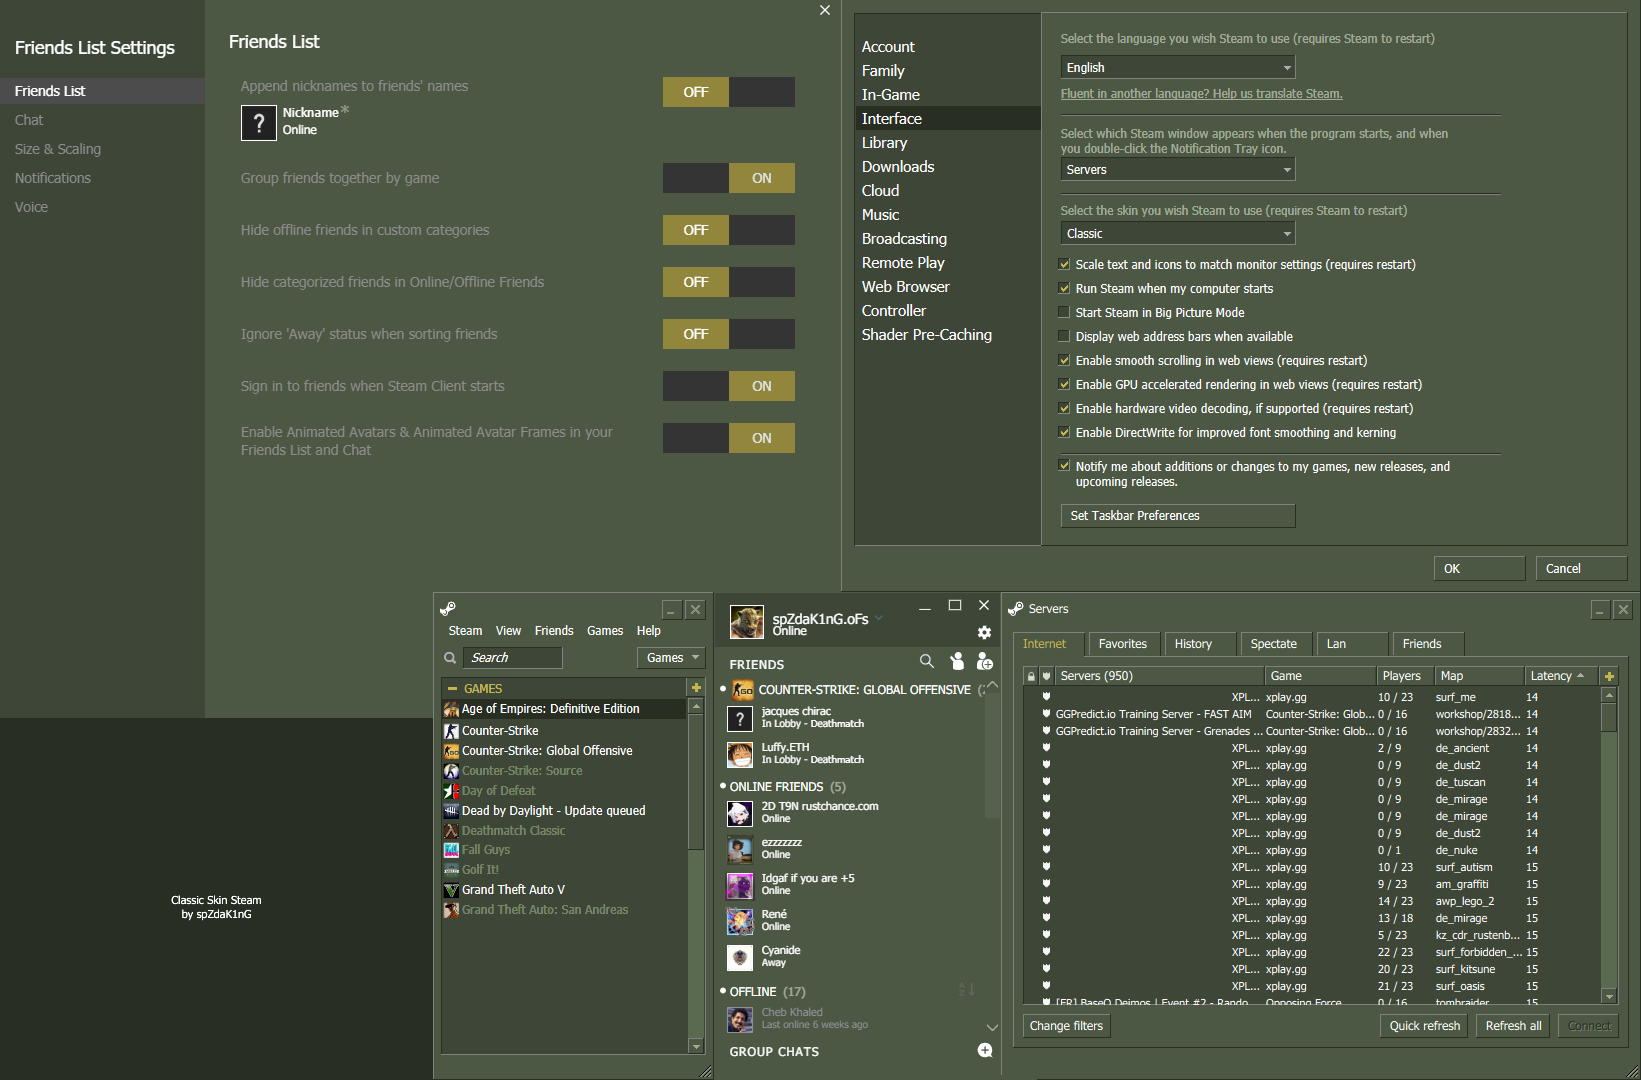
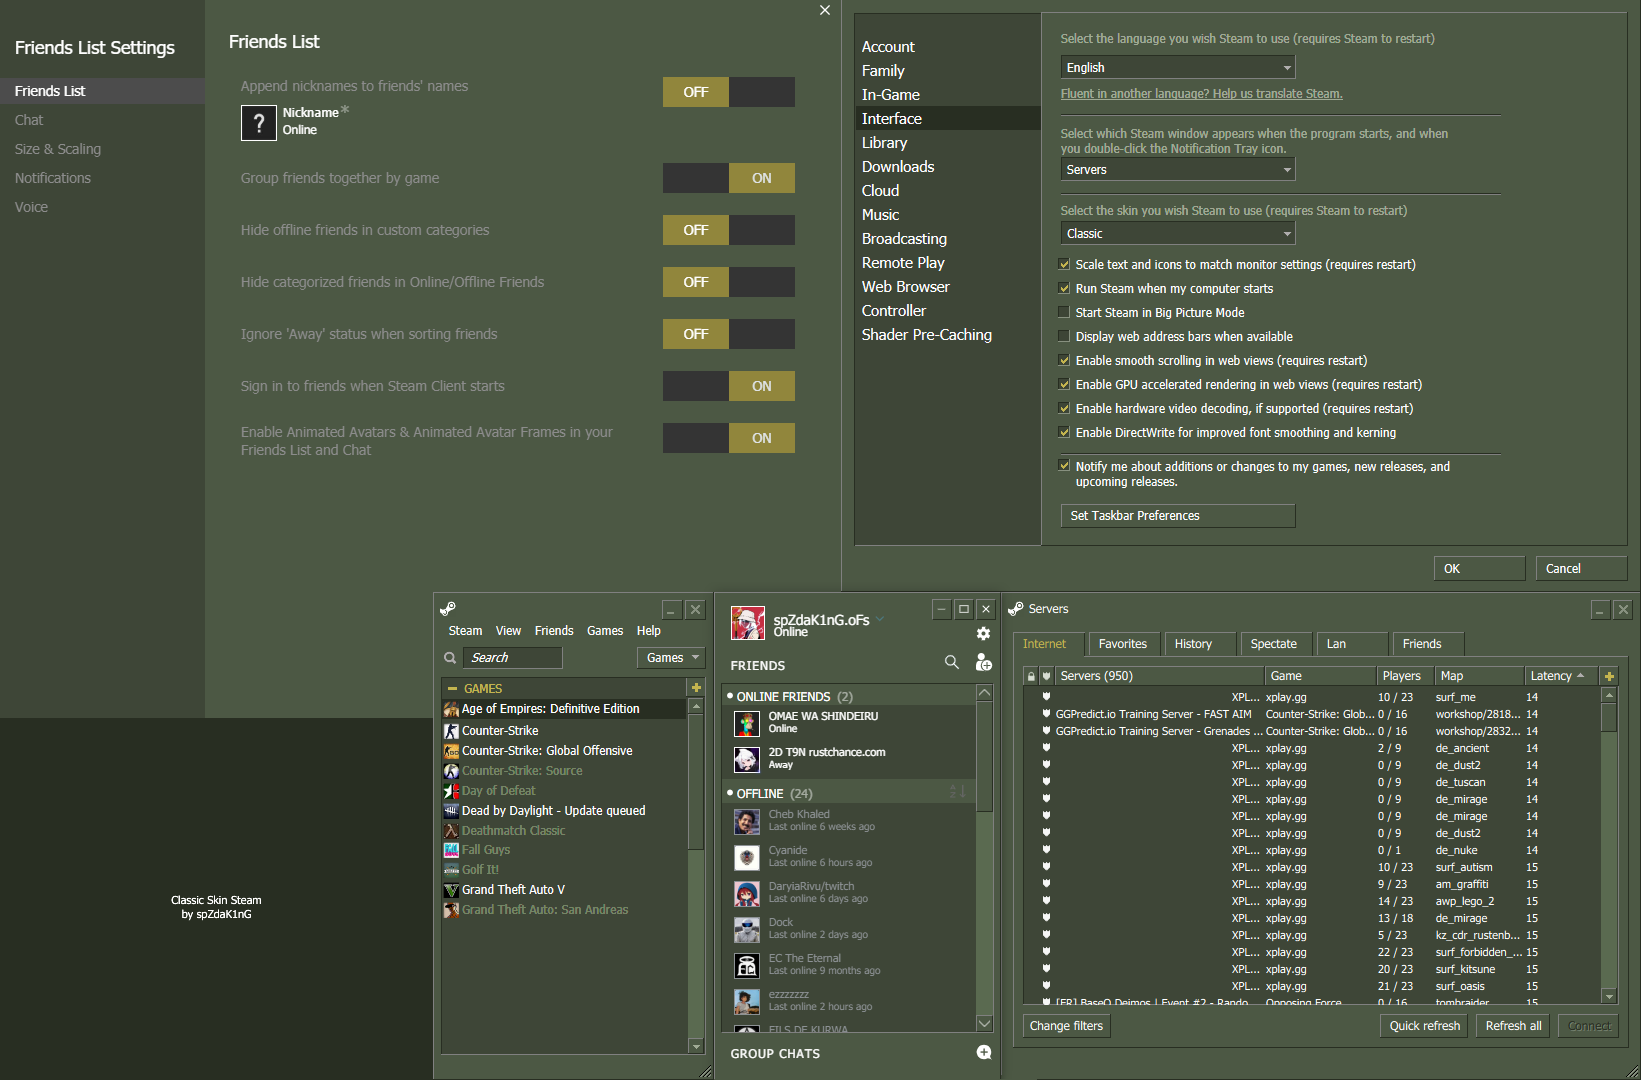
-- Follow up Steam Update Friends UI

Changed region(s): [[0.4351, 0.55, 0.6216, 0.9778], [0.5905, 0.9472, 0.6216, 0.9778]]

diff --git a/friends.custom.css b/friends.custom.css
@@ -1,6 +1,6 @@
 :root {
   --chatfont: 11px; /* Font size for chat messages */
-  --scrollbarSize: 15px;
+  --scrollbarSize: 17px;
 
   /* Color presets: */
   --focus: 145, 134, 60; /* Default Metro skin purple accent */
@@ -8,7 +8,7 @@
   --W10close_Red_h: 76, 88, 68; /* Window close button color on hover */
   --W10close_Red_p: 76, 88, 68; /* Window close button color when pressed */
   --clientBG: 76, 88, 68;
-  --header_dark: 62, 70, 55;
+  --header_dark: 76, 88, 68;
   --online: 255, 255, 255;
   --ingame: 255, 255, 255;
   --offline: 141, 146, 149;
@@ -56,6 +56,13 @@
 --textentrybuttons: 35, 50, 50;
 */
 
+:root {
+  border-top: 1px solid #808080;
+  border-left: 1px solid #808080;
+  border-bottom: 1px solid #282e22;
+  border-right: 1px solid #282e22;
+}
+
 /* Remove animations, round corners and delays */
 * {
   box-shadow: none !important;
@@ -83,7 +90,12 @@
 
 /* Friends list window*/
 .friendlistListContainer {
-  background: rgb(var(--clientBG)) !important;
+  margin: 5px;
+  border-bottom: 1px solid #808080;
+  border-right: 1px solid #808080;
+  border-top: 1px solid #282e22;
+  border-left: 1px solid #282e22;
+  background: #3e4637 !important;
 }
 
 /* Top friends list panel bg*/
@@ -812,28 +824,42 @@ button.DialogButton,
 /* scroll bar*/
 ::-webkit-scrollbar {
   width: var(--scrollbarSize) !important;
+  background: #5a6a50!important;
 }
 .ChatTabs ::-webkit-scrollbar-thumb {
-  background-color: transparent !important;
+  background-color: #4c5844!important;
+  border-left: 1px solid #808080;
+  border-top: 1px solid #808080;
+  border-bottom: 1px solid #282e22;
+  border-right: 1px solid #282e22;
 }
 
 ::-webkit-scrollbar-thumb {
   border-radius: 0px !important;
-  background: rgba(var(--white05)) !important;
-  border: 0px solid #131313 !important;
+  background: #4c5844!important;
+  border-left: 1px solid #808080;
+  border-top: 1px solid #808080;
+  border-bottom: 1px solid #282e22;
+  border-right: 1px solid #282e22;
 }
 
 .chatWindow ::-webkit-scrollbar,
 .friendlist ::-webkit-scrollbar {
-  background: rgb(var(--clientBG)) !important;
+  background: #5a6a50!important;
   width: var(--scrollbarSize) !important;
 }
 /* scroll bar button */
 ::-webkit-scrollbar-button {
-  height: 16px !important;
-  border-radius: 0px !important;
-  background-color: none !important;
-  border: 2px solid transparent !important;
+  height: 17px !important;
+  background-color: #4c5844!important;
+  border-left: 1px solid #808080;
+  border-top: 1px solid #808080;
+  border-bottom: 1px solid #282e22;
+  border-right: 1px solid #282e22;
+  align-items: center!important;
+  text-align: center!important;
+  justify-content: center!important;
+  vertical-align: middle!important;
 }
 
 /* disables scroll buttons at settings */
@@ -841,8 +867,11 @@ button.DialogButton,
   display: none !important;
 }
 
-::-webkit-scrollbar-button:hover {
-  background-color: rgba(var(--white05)) !important;
+::-webkit-scrollbar-button:active, ::-webkit-scrollbar-button:focus  {
+  border-bottom: 1px solid #808080;
+  border-right: 1px solid #808080;
+  border-top: 1px solid #282e22;
+  border-left: 1px solid #282e22;
 }
 
 /* Remove the following sections when on Linux or Mac */
@@ -852,13 +881,13 @@ button.DialogButton,
 ::-webkit-scrollbar-button:vertical:increment {
[1 lines of base64/hex data omitted]
   background-repeat: no-repeat !important;
-  background-position: 0px 0px !important;
+  background-position: 2px 2px !important;
 }
 /* Up */
 ::-webkit-scrollbar-button:vertical:decrement {
[1 lines of base64/hex data omitted]
   background-repeat: no-repeat !important;
-  background-position: 0px 0px !important;
+  background-position: 2px 2px !important;
 }
 
 /* Remove the above sections when on Linux or Mac */
@@ -866,11 +895,6 @@ button.DialogButton,
 /* background behind scrollbar */
 ::-webkit-scrollbar-track {
   background-color: none !important;
-}
-/* hovering for the scrollbar itself */
-::-webkit-scrollbar-thumb:hover {
-  background-color: rgba(var(--white10)) !important;
-  border-radius: 0px !important;
 }
 
 .multiChatDialog {
@@ -1854,16 +1878,83 @@ button.DialogButton.Primary:hover {
 .title-area-icon:hover{
 background: rgba(var(--white05))!important;}*/
 
-.minimizeButton:hover,
-.maximizeButton:hover,
-.restoreButton:hover {
-  background: rgba(var(--white05)) !important;
+.minimizeButton,
+.maximizeButton,
+.restoreButton,
+.closeButton {
+  background: #4c5844;
+  color: #87907f!important;
+  font-size: 10px!important;
+  font-weight: bold;
+  font-family: 'Verdana',sans-serif!important;
+  border-left: 1px solid #808080;
+  border-top: 1px solid #808080;
+  border-bottom: 1px solid #282e22;
+  border-right: 1px solid #282e22;
+  width: 20px!important;
+  height: 20px!important;
+  padding: 0!important;
+  margin-top: 7px!important;
+  margin-right: 3px!important;
+  padding-top: 4px!important;
+  padding-right:5px!important;
+  padding-bottom: 3px!important;
+  zoom: 0.7!important;
+}
+
+.maximizeButton,
+.closeButton {
+  background: #4c5844;
+  color: #87907f!important;
+  font-size: 10px!important;
+  font-weight: bold;
+  font-family: 'Verdana',sans-serif!important;
+  border-left: 1px solid #808080;
+  border-top: 1px solid #808080;
+  border-bottom: 1px solid #282e22;
+  border-right: 1px solid #282e22;
+  width: 20px!important;
+  height: 20px!important;
+  padding: 0!important;
+  margin-top: 7px!important;
+  margin-right: 3px!important;
+  padding-top: 8px!important;
+  padding-right:5px!important;
+  padding-left:1px!important;
+  padding-bottom: -2px!important;
+  zoom: 0.7!important;
+}
+
+.closeButton {
+  background: #4c5844;
+  color: #87907f!important;
+  font-size: 10px!important;
+  font-weight: bold;
+  font-family: 'Verdana',sans-serif!important;
+  border-left: 1px solid #808080;
+  border-top: 1px solid #808080;
+  border-bottom: 1px solid #282e22;
+  border-right: 1px solid #282e22;
+  width: 20px!important;
+  height: 20px!important;
+  padding: 0!important;
+  margin-top: 7px!important;
+  margin-right: 4px!important;
+  padding-top: 8px!important;
+  padding-right:4px!important;
+  padding-left:2px!important;
+  padding-bottom: -2px!important;
+  zoom: 0.7!important;
 }
 
 .minimizeButton:active,
 .maximizeButton:active,
-.restoreButton:active {
-  background: rgba(var(--white10)) !important;
+.restoreButton:active,
+.closeButton:active {
+  border-bottom: 1px solid #808080;
+  border-right: 1px solid #808080;
+  border-top: 1px solid #282e22;
+  border-left: 1px solid #282e22;
 }
 
 .closeButton:not([class*="chattabs_CloseButton_"]):hover {
